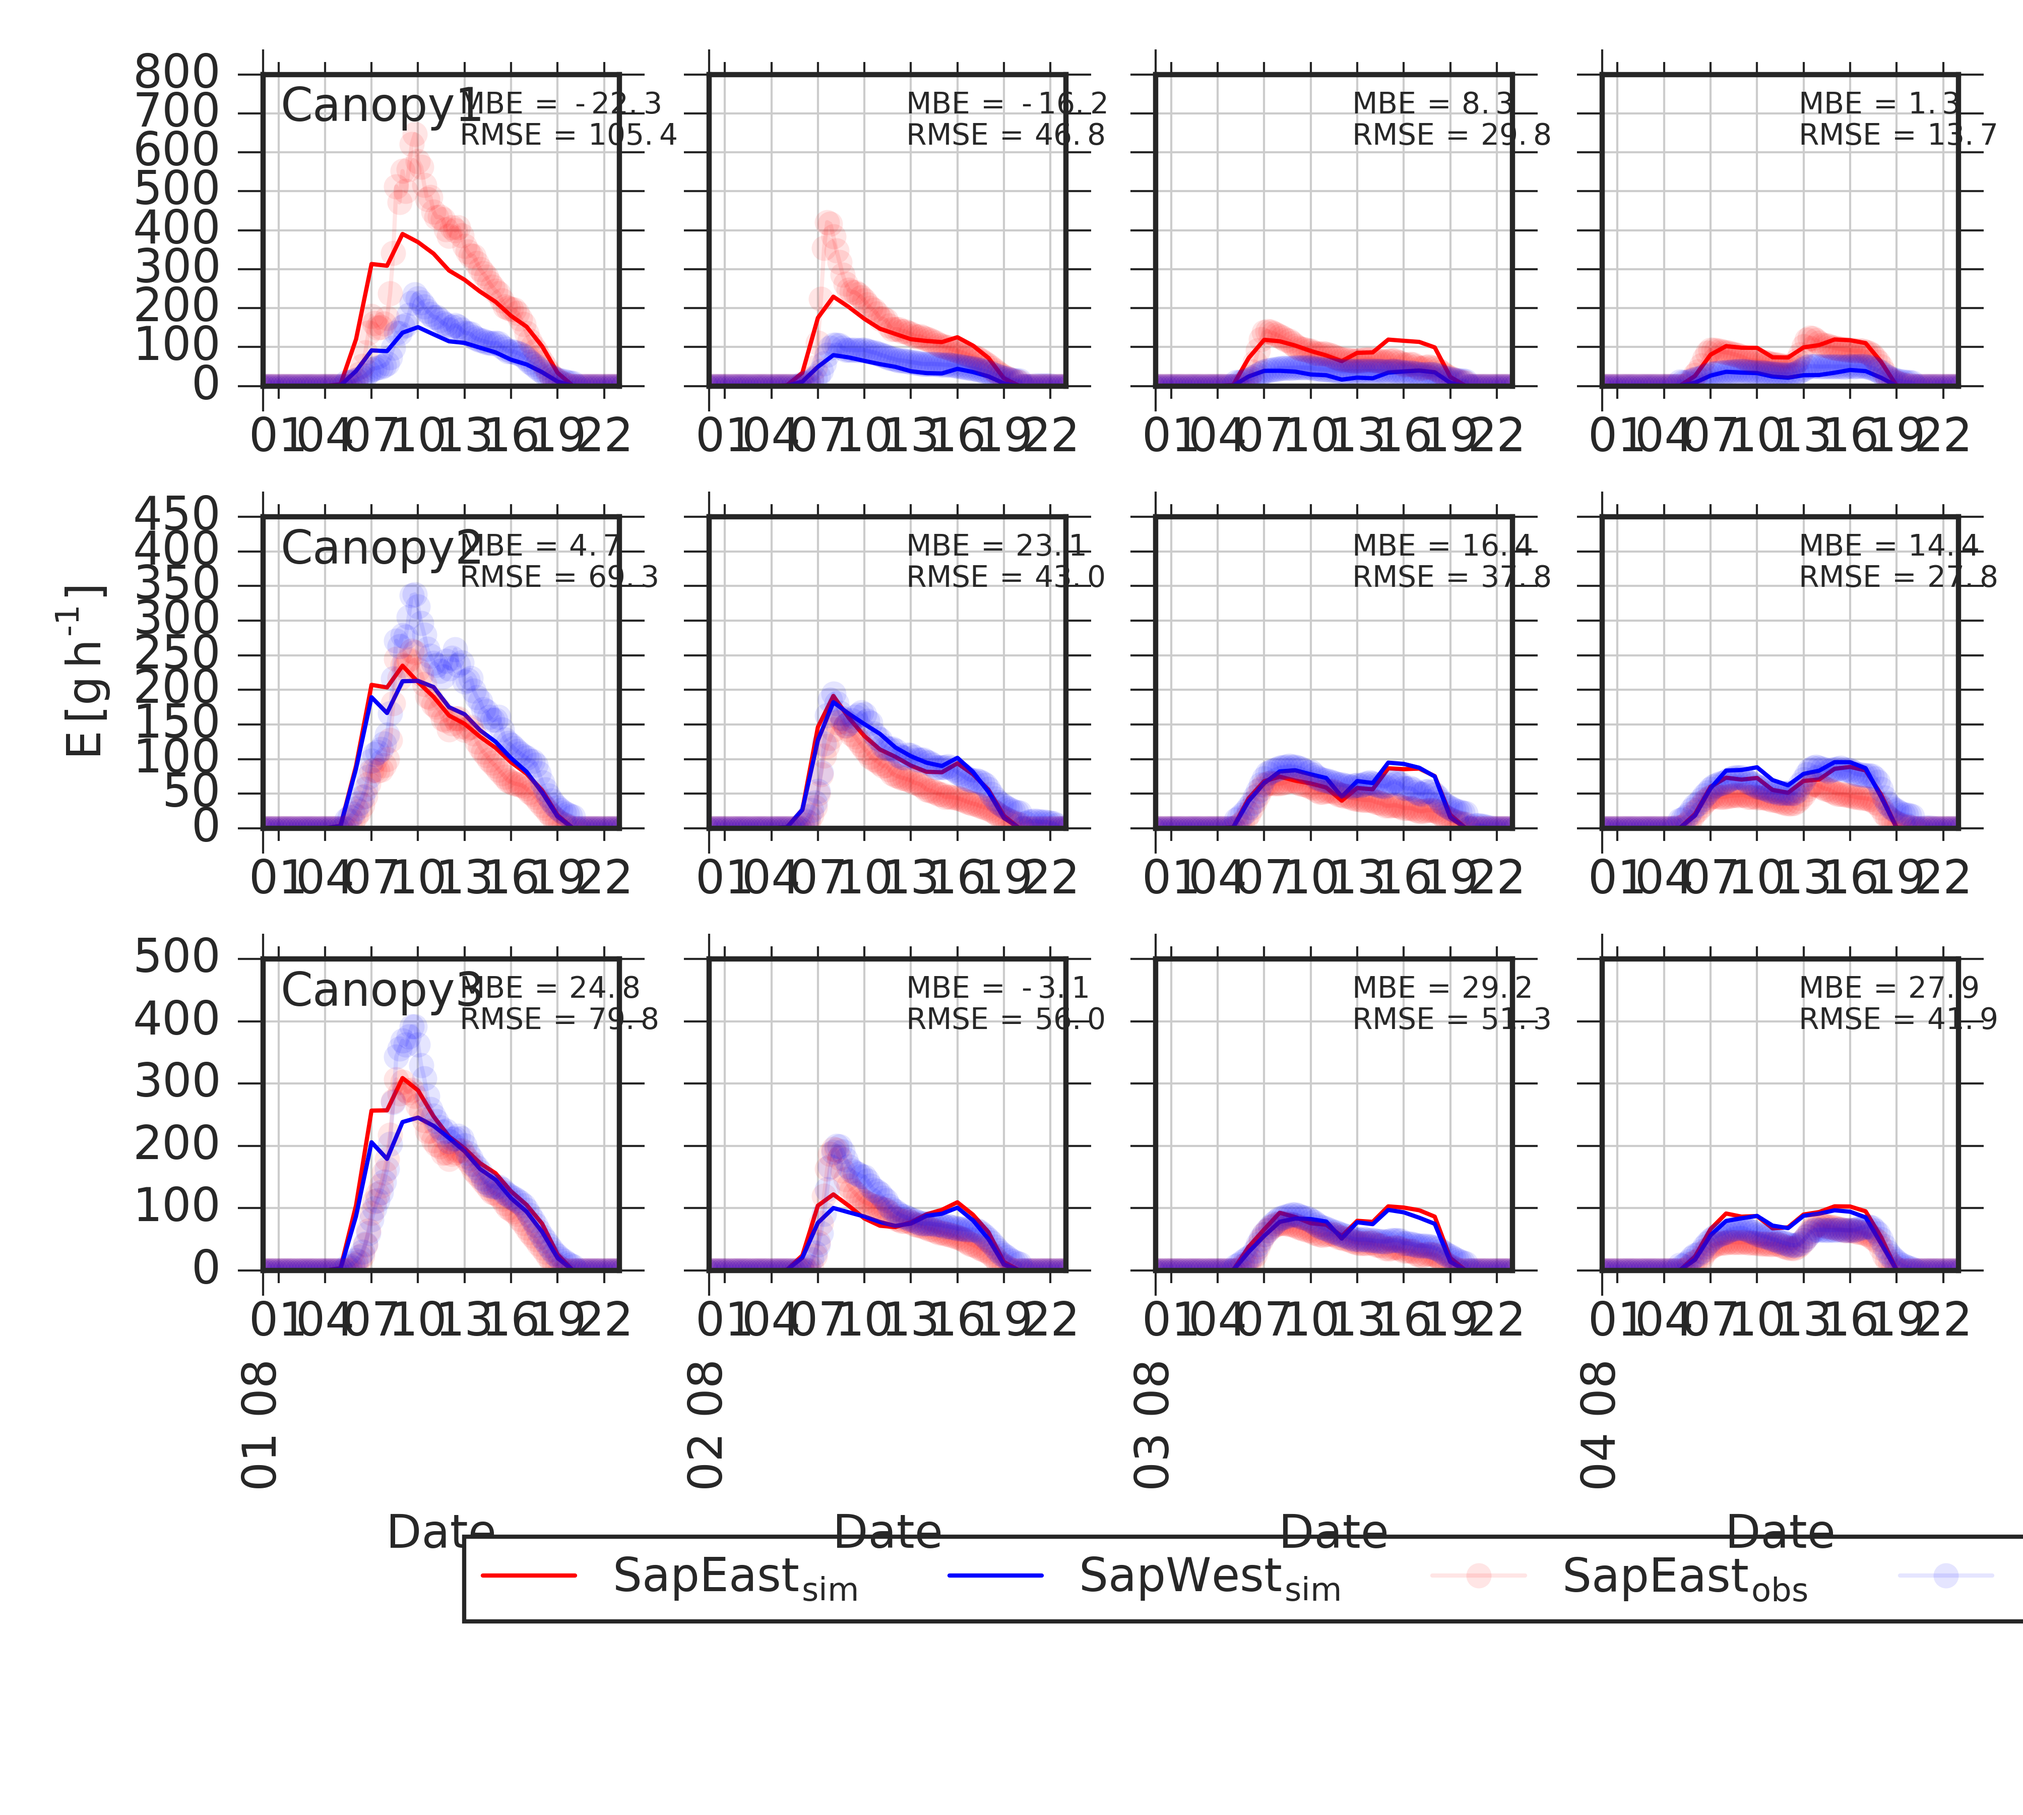
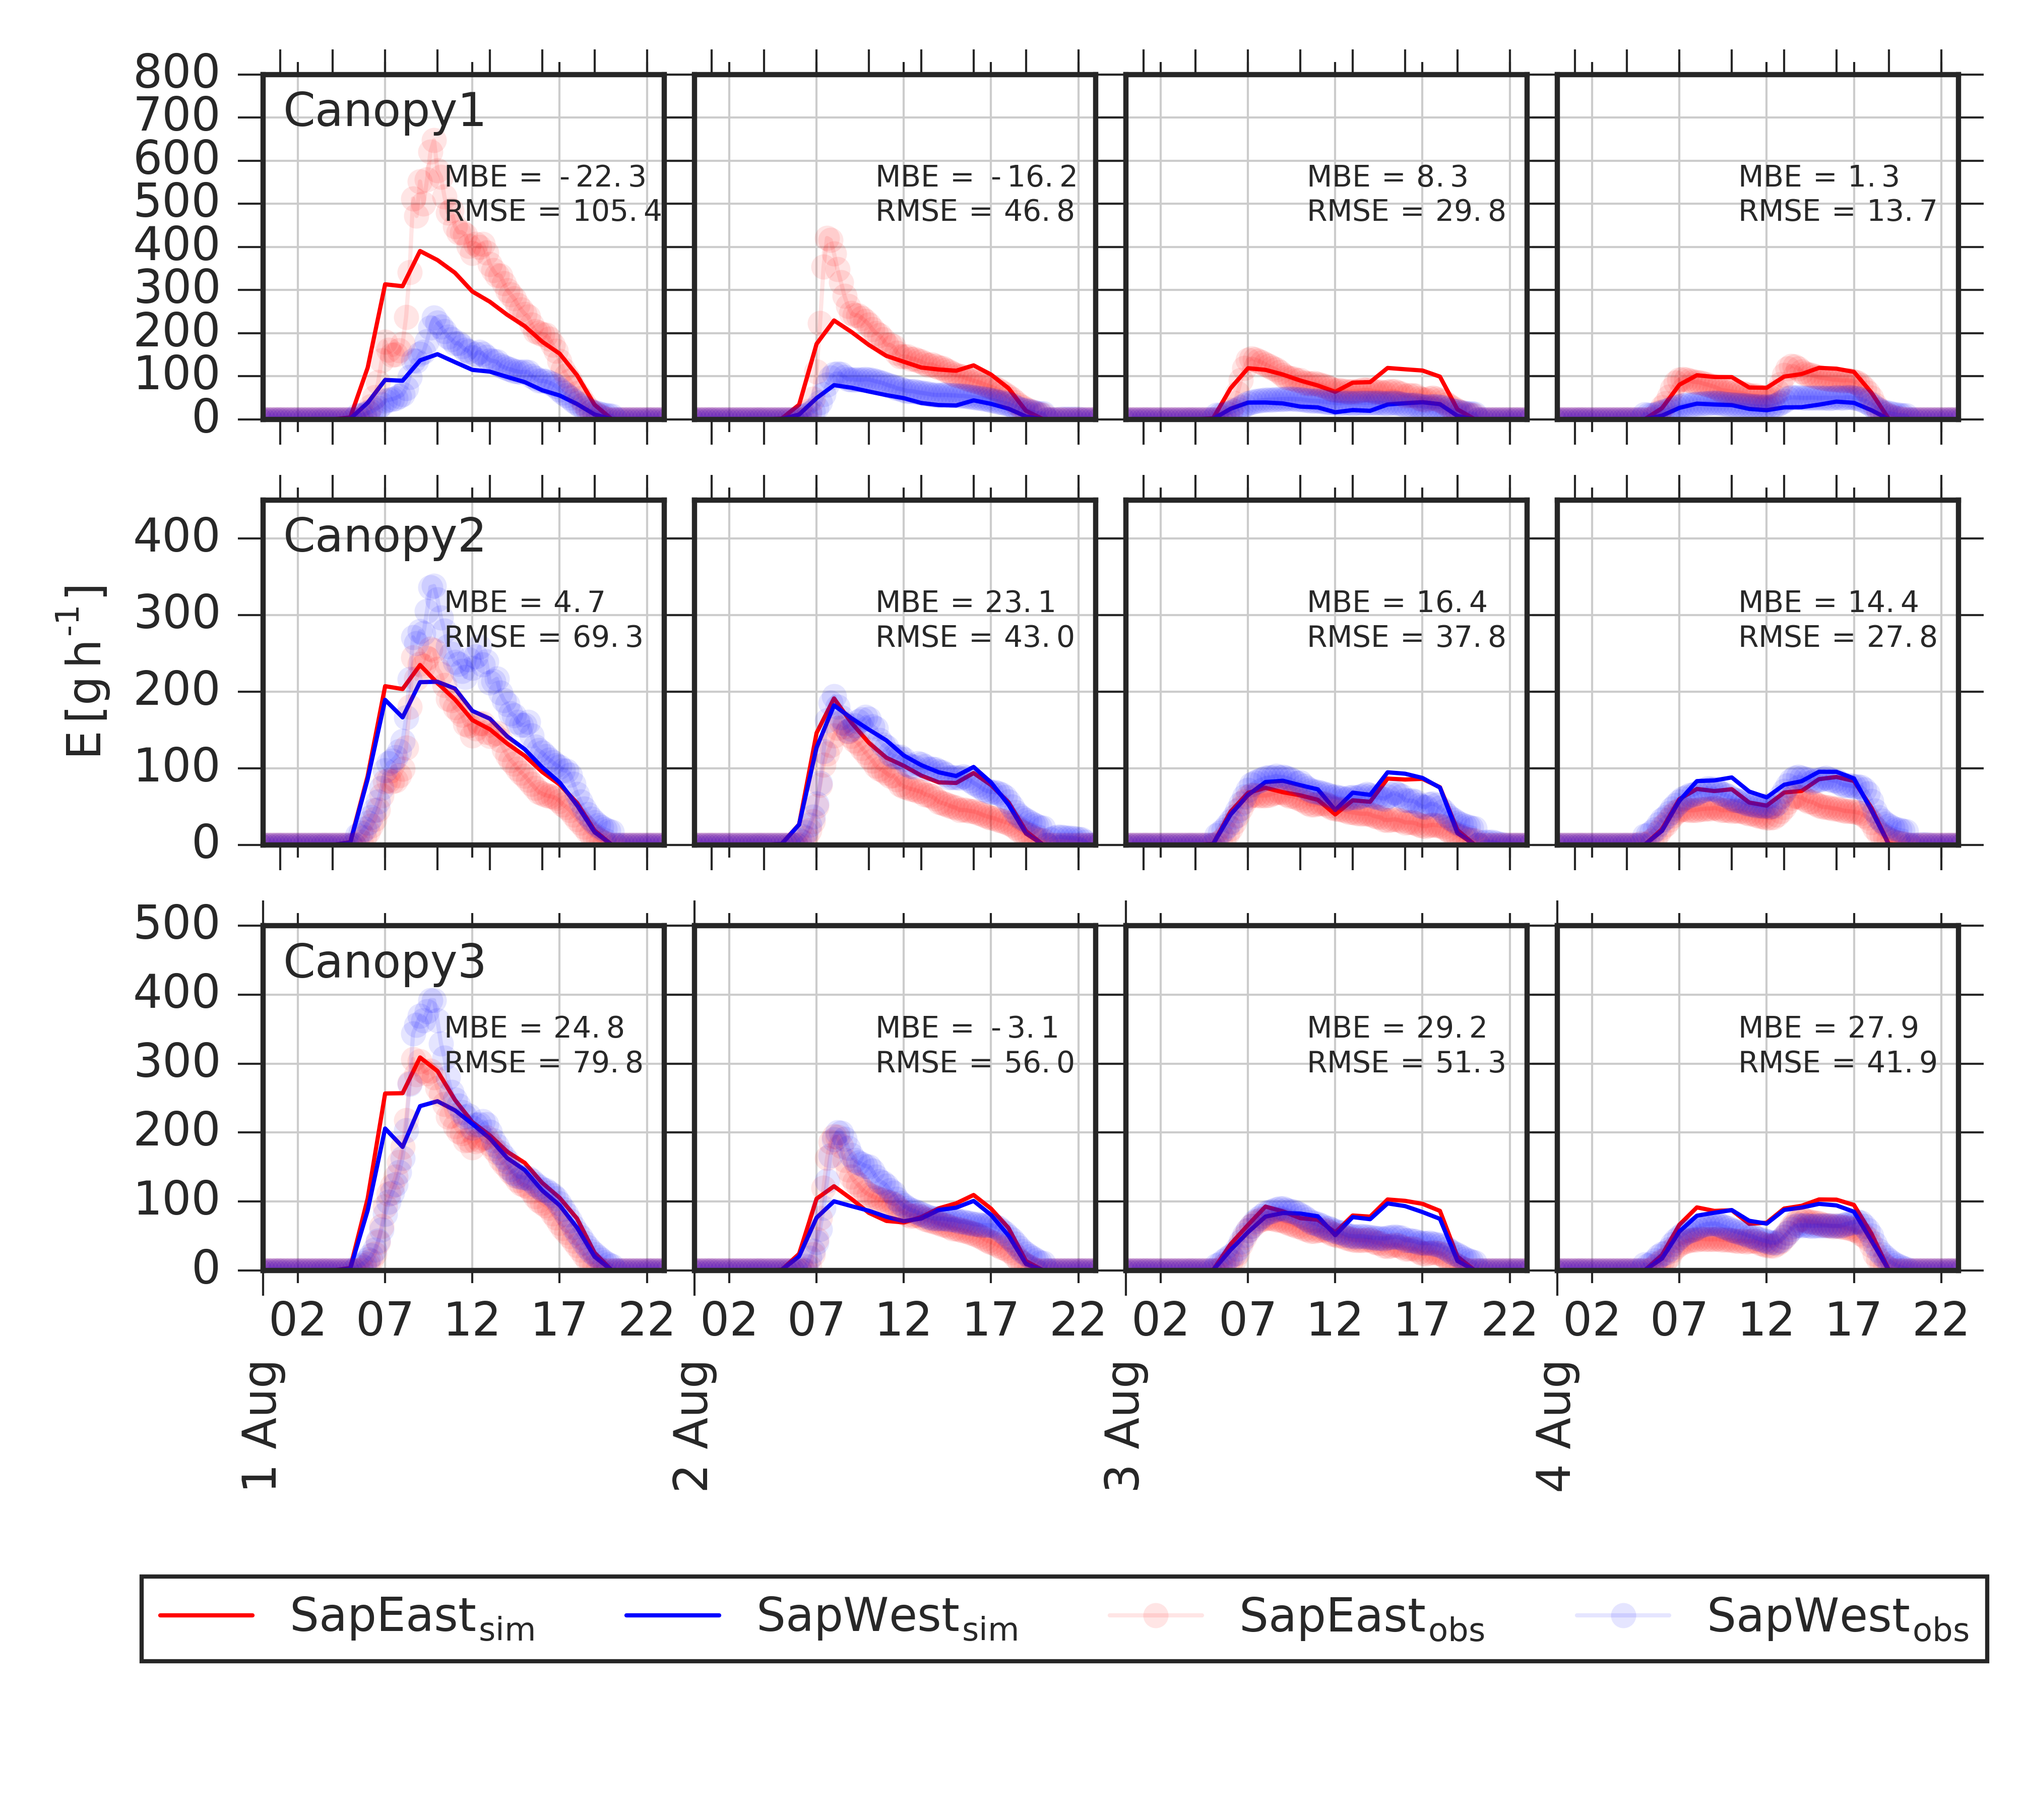
setup plot_figure_14()

Changed region(s): [[0.0623, 0.0311, 0.9965, 0.8089], [0.1246, 0.84, 0.9965, 0.9333], [0.0623, 0.8711, 0.0934, 0.9333]]

diff --git a/example/figs/paper_figs.py b/example/figs/paper_figs.py
@@ -633,7 +633,7 @@ def plot_figure_14():
     """Generates figure 14 of the paper. This figure compares, simulated to observed plant transpiration rates.
     """
 
-    fig, axs = pyplot.subplots(nrows=3, ncols=4, sharex='col', sharey='row', figsize=(6.69, 6))
+    fig, axs = pyplot.subplots(nrows=3, ncols=4, sharey='row', figsize=(6.69, 6))
 
     for i_treat, training in enumerate(('gdc_can1_grapevine', 'gdc_can2_grapevine', 'gdc_can3_grapevine')):
 
@@ -642,7 +642,6 @@ def plot_figure_14():
         # read observations
         obs_df = pd.read_csv(pth / 'sapflow.obs', sep=';', decimal='.', index_col='date')
         obs_df.index = [datetime.strptime(s, "%d/%m/%Y %H:%M") for s in obs_df.index]
-        # obs_df.index = pd.DatetimeIndex(obs_df.idnex)
 
         time_group = []
         for itime in obs_df.index:
@@ -696,10 +695,10 @@ def plot_figure_14():
             bias = (y_t - x_t).mean()
             rmse = np.sqrt(((x_t - y_t) ** 2).mean())
 
-            ax.text(0.55, 0.875,
+            ax.text(0.45, 0.675,
                     '$\mathregular{MBE\/=\/%.1f}$' % bias,
                     transform=ax.transAxes, fontdict={'size': 7})
-            ax.text(0.55, 0.775,
+            ax.text(0.45, 0.575,
                     '$\mathregular{RMSE\/=\/%.1f}$' % rmse,
                     transform=ax.transAxes, fontdict={'size': 7})
 
@@ -709,6 +708,18 @@ def plot_figure_14():
         day_edate = day_sdate + timedelta(hours=23)
         for can in range(3):
             axs[can, day].set_xlim(day_sdate, day_edate)
+            axs[can, day].yaxis.set_major_locator(ticker.MultipleLocator(100))
+            if can != 2:
+                axs[can, day].xaxis.set_ticklabels('')
+                axs[can, day].xaxis.set_minor_locator(dates.HourLocator(interval=5))
+            else:
+                axs[can, day].set_xticklabels(pd.date_range(day_sdate, day_edate, freq='H'),
+                                              rotation=90)
+                axs[can, day].xaxis.set_major_locator(dates.DayLocator())
+                axs[can, day].xaxis.set_major_formatter(dates.DateFormatter('%-d %b'))
+                axs[can, day].xaxis.set_minor_locator(dates.HourLocator(interval=5))
+                axs[can, day].xaxis.set_minor_formatter(dates.DateFormatter('%H'))
+                axs[can, day].tick_params(axis='x', which='major', pad=15)
 
     axs[1, 0].set_ylabel('$\mathregular{E\/[g\/h^{-1}]}$')
 
@@ -720,16 +731,6 @@ def plot_figure_14():
         axs[can, 0].text(0.05, 0.85, 'Canopy%s' % str(can + 1),
                          transform=axs[can, 0].transAxes, fontdict={'size': 11})
 
-    for ax in axs[2, :]:
-        ax.set_xlabel('Date')
-        ax.set_xticklabels(pd.date_range(day_sdate, day_edate, freq='H'),
-                           rotation=90)
-        ax.xaxis.set_major_locator(dates.DayLocator())
-        ax.xaxis.set_major_formatter(dates.DateFormatter('%d %m'))
-        ax.xaxis.set_minor_locator(dates.HourLocator(interval=3))
-        ax.xaxis.set_minor_formatter(dates.DateFormatter('%H'))
-        ax.tick_params(axis='x', which='major', pad=15)
-
     fig.tight_layout()
     fig.subplots_adjust(left=0.13, bottom=0.3)
 
@@ -737,8 +738,9 @@ def plot_figure_14():
 
     axs[2, 0].legend(h1, ('$\mathregular{SapEast_{sim}}$', '$\mathregular{SapWest_{sim}}$',
                           '$\mathregular{SapEast_{obs}}$', '$\mathregular{SapWest_{obs}}$'),
-                     frameon=True, bbox_to_anchor=(0.5, -1.2, 2, .102),
+                     frameon=True, bbox_to_anchor=(-0.36, -1.2, 2, .102),
                      loc=3, ncol=8, prop={'size': 11})
+    fig.subplots_adjust(wspace=0.075)
 
     fig.savefig('fig_14.png', dpi=600.)
     pyplot.close(fig)
@@ -989,8 +991,8 @@ if __name__ == '__main__':
     # plot_figure_10()
     # plot_figure_11()
     # plot_figure_12()
-    plot_figure_13()
-    # plot_figure_14()
+    # plot_figure_13()
+    plot_figure_14()
     # plot_figure_15()
     # write_table_1()
     # estimate_energy_balance_contribution()
